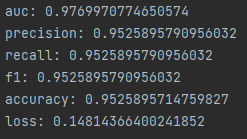
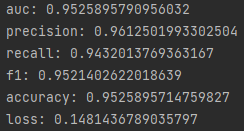
Final bug fixes on evaluation

diff --git a/src/models/lstm.py b/src/models/lstm.py
@@ -1,15 +1,17 @@
-from keras.metrics import BinaryAccuracy, AUC, TruePositives, FalsePositives, FalseNegatives
 from keras.utils import Sequence, to_categorical
 from keras.layers import LSTM, Dense, Masking
 from keras.losses import BinaryCrossentropy
 from keras.models import Model, Sequential
+from keras.metrics import BinaryAccuracy
 from keras.callbacks import TensorBoard
 from multiprocessing import cpu_count
 from keras.optimizers import Adam
 from typing import List, Tuple
+from sklearn import metrics
 from numpy import ndarray
 import numpy as np
 import random
+import math
 import os
 from src.util import Feature, SaveWeightsCallback, get_batches, fasttext_pad, cd_to_executing_file
 from src.dataset import LLMClassifierDataset
@@ -141,8 +143,8 @@ def get_dataloaders(batch_size: int, training_ratio: float) -> \
                                    training_ratio=training_ratio, use_validation=True, training_set=False, shuffle=True,
                                    fasttext=True, load_to_memory=False), \
            LLMClassifierDataLoader(db_path=test_db_path, batch_size=batch_size, max_words=max_words,
-                                   training_ratio=training_ratio, use_validation=False, training_set=True, shuffle=True,
-                                   fasttext=True, load_to_memory=False), \
+                                   training_ratio=training_ratio, use_validation=False, training_set=True,
+                                   shuffle=False, fasttext=True, load_to_memory=False), \
            max_words, word_length
 
 
@@ -163,8 +165,7 @@ def load_model(max_words: int, word_length: int) -> Model:
     model.add(LSTM(units=word_length, activation='tanh', return_sequences=False, dtype=np.float32))
     model.add(Dense(units=32, activation='relu', dtype=np.float32))
     model.add(Dense(units=2, activation='softmax', dtype=np.float32))
-    model.compile(optimizer=Adam(learning_rate=0.001), loss=BinaryCrossentropy(),
-                  metrics=[BinaryAccuracy(), AUC(), TruePositives(), FalsePositives(), FalseNegatives()])
+    model.compile(optimizer=Adam(learning_rate=0.001), loss=BinaryCrossentropy(), metrics=[BinaryAccuracy()])
     model.summary()
     return model
 
@@ -232,22 +233,20 @@ def test(test_dataloader: LLMClassifierDataLoader, model_name: str, max_words: i
     """
     model = load_model(max_words, word_length)
     model.load_weights(f'../model_weights/{model_name}/weights_epoch_10.h5')
+    logits = model.predict(test_dataloader)
+    predictions = np.argmax(logits, axis=1)
+    y = np.array([np.argmax(element) for batch in test_dataloader for element in batch[1]], dtype=int)
+    auc = metrics.roc_auc_score(y_true=y, y_score=predictions)
+    precision = metrics.precision_score(y_true=y, y_pred=predictions)
+    recall = metrics.recall_score(y_true=y, y_pred=predictions)
+    f1 = metrics.f1_score(y_true=y, y_pred=predictions)
     evaluation = model.evaluate(test_dataloader)
-    loss = evaluation[0]
-    accuracy = evaluation[1]
-    auc = evaluation[2]
-    tp = evaluation[3]
-    fp = evaluation[4]
-    fn = evaluation[5]
-    precision = tp / (tp + fp)
-    recall = tp / (tp + fn)
-    f1 = 2 * (precision * recall) / (precision + recall)
     print(f'auc: {auc}')
     print(f'precision: {precision}')
     print(f'recall: {recall}')
     print(f'f1: {f1}')
-    print(f'accuracy: {accuracy}')
-    print(f'loss: {loss}')
+    print(f'accuracy: {evaluation[1]}')
+    print(f'loss: {evaluation[0]}')
 
 
 def lstm(epochs: int, batch_size: int) -> None:
@@ -263,9 +262,9 @@ def lstm(epochs: int, batch_size: int) -> None:
     print(f'Loading data...')
     train_dataloader, validation_dataloader, test_dataloader, max_words, word_length = \
         get_dataloaders(batch_size=batch_size, training_ratio=0.75)
-    # print(f'Training model...')
-    # train(train_dataloader=train_dataloader, validation_dataloader=validation_dataloader, model_name=model_name,
-    #       max_words=max_words, word_length=word_length, epochs=epochs)
+    print(f'Training model...')
+    train(train_dataloader=train_dataloader, validation_dataloader=validation_dataloader, model_name=model_name,
+          max_words=max_words, word_length=word_length, epochs=epochs)
     print(f'Testing model...')
     test(test_dataloader=test_dataloader, model_name=model_name, max_words=max_words, word_length=word_length)
 

diff --git a/src/models/fine_tune_distilbert.py b/src/models/fine_tune_distilbert.py
@@ -1,10 +1,11 @@
-from keras.metrics import BinaryAccuracy, AUC, TruePositives, FalsePositives, FalseNegatives
 from transformers import TFAutoModelForSequenceClassification, AutoTokenizer
 from keras.callbacks import TensorBoard
 from typing import Tuple, Dict, Any
 from keras.optimizers import Adam
 from keras.models import Model
+from sklearn import metrics
 from numpy import ndarray
+import numpy as np
 import os
 from src.util import cd_to_executing_file, SaveWeightsCallback
 from src.dataset import load_data
@@ -42,8 +43,7 @@ def load_model(model_name) -> Model:
         The loaded and compiled model.
     """
     model = TFAutoModelForSequenceClassification.from_pretrained(model_name)
-    model.compile(optimizer=Adam(3e-5),
-                  metrics=[BinaryAccuracy(), AUC(), TruePositives(), FalsePositives(), FalseNegatives()])
+    model.compile(optimizer=Adam(3e-5), metrics=['accuracy'])
     return model
 
 
@@ -105,22 +105,19 @@ def test(x: ndarray[float], y: ndarray[int], model_name: str) -> None:
     model_file = model_name.split('/')[-1]
     model = load_model(model_name)
     model.load_weights(f'../model_weights/{model_file}/weights_epoch_2.h5')
-    evaluation = model.evaluate(x, y)
-    loss = evaluation[0]
-    accuracy = evaluation[1]
-    auc = evaluation[2]
-    tp = evaluation[3]
-    fp = evaluation[4]
-    fn = evaluation[5]
-    precision = tp / (tp + fp)
-    recall = tp / (tp + fn)
-    f1 = 2 * (precision * recall) / (precision + recall)
+    logits = model.predict(x)['logits']
+    predictions = np.argmax(logits, axis=1)
+    auc = metrics.roc_auc_score(y_true=y, y_score=predictions)
+    precision = metrics.precision_score(y_true=y, y_pred=predictions)
+    recall = metrics.recall_score(y_true=y, y_pred=predictions)
+    f1 = metrics.f1_score(y_true=y, y_pred=predictions)
+    evaluation = model.evaluate(x, y, batch_size=2)
     print(f'auc: {auc}')
     print(f'precision: {precision}')
     print(f'recall: {recall}')
     print(f'f1: {f1}')
-    print(f'accuracy: {accuracy}')
-    print(f'loss: {loss}')
+    print(f'accuracy: {evaluation[1]}')
+    print(f'loss: {evaluation[0]}')
 
 
 def fine_tune_distilbert(epochs: int, batch_size: int) -> None:
